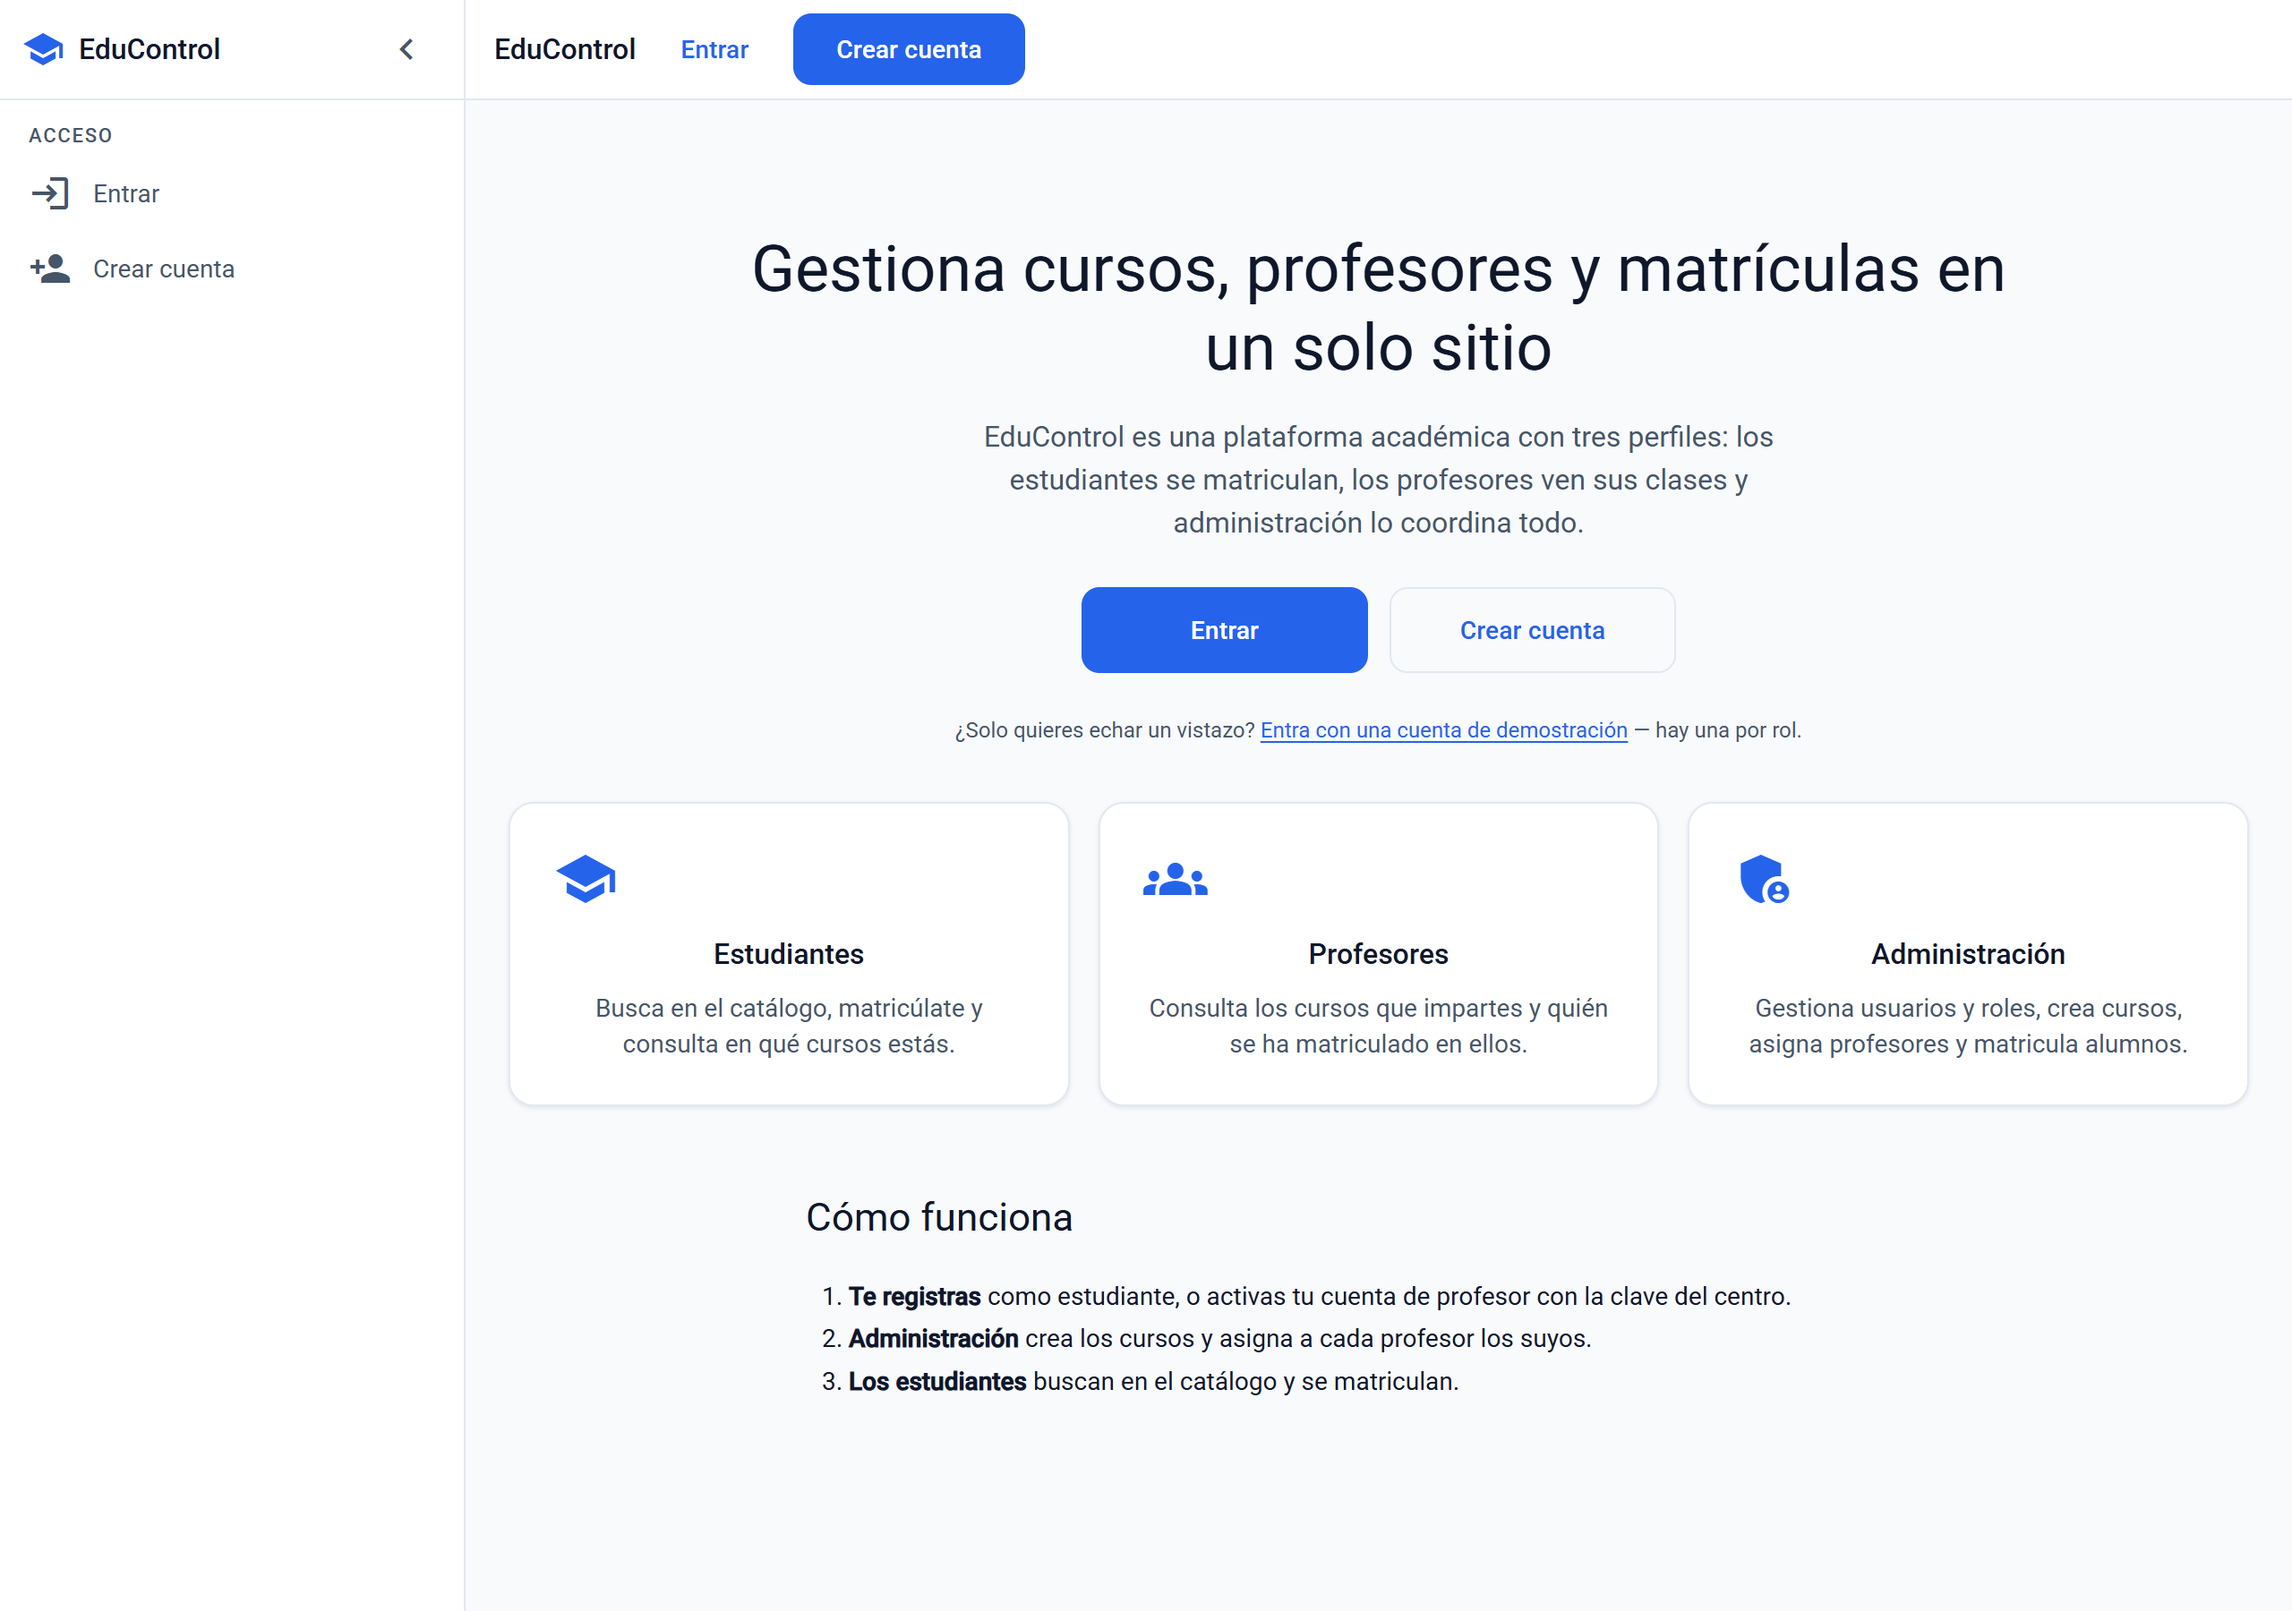
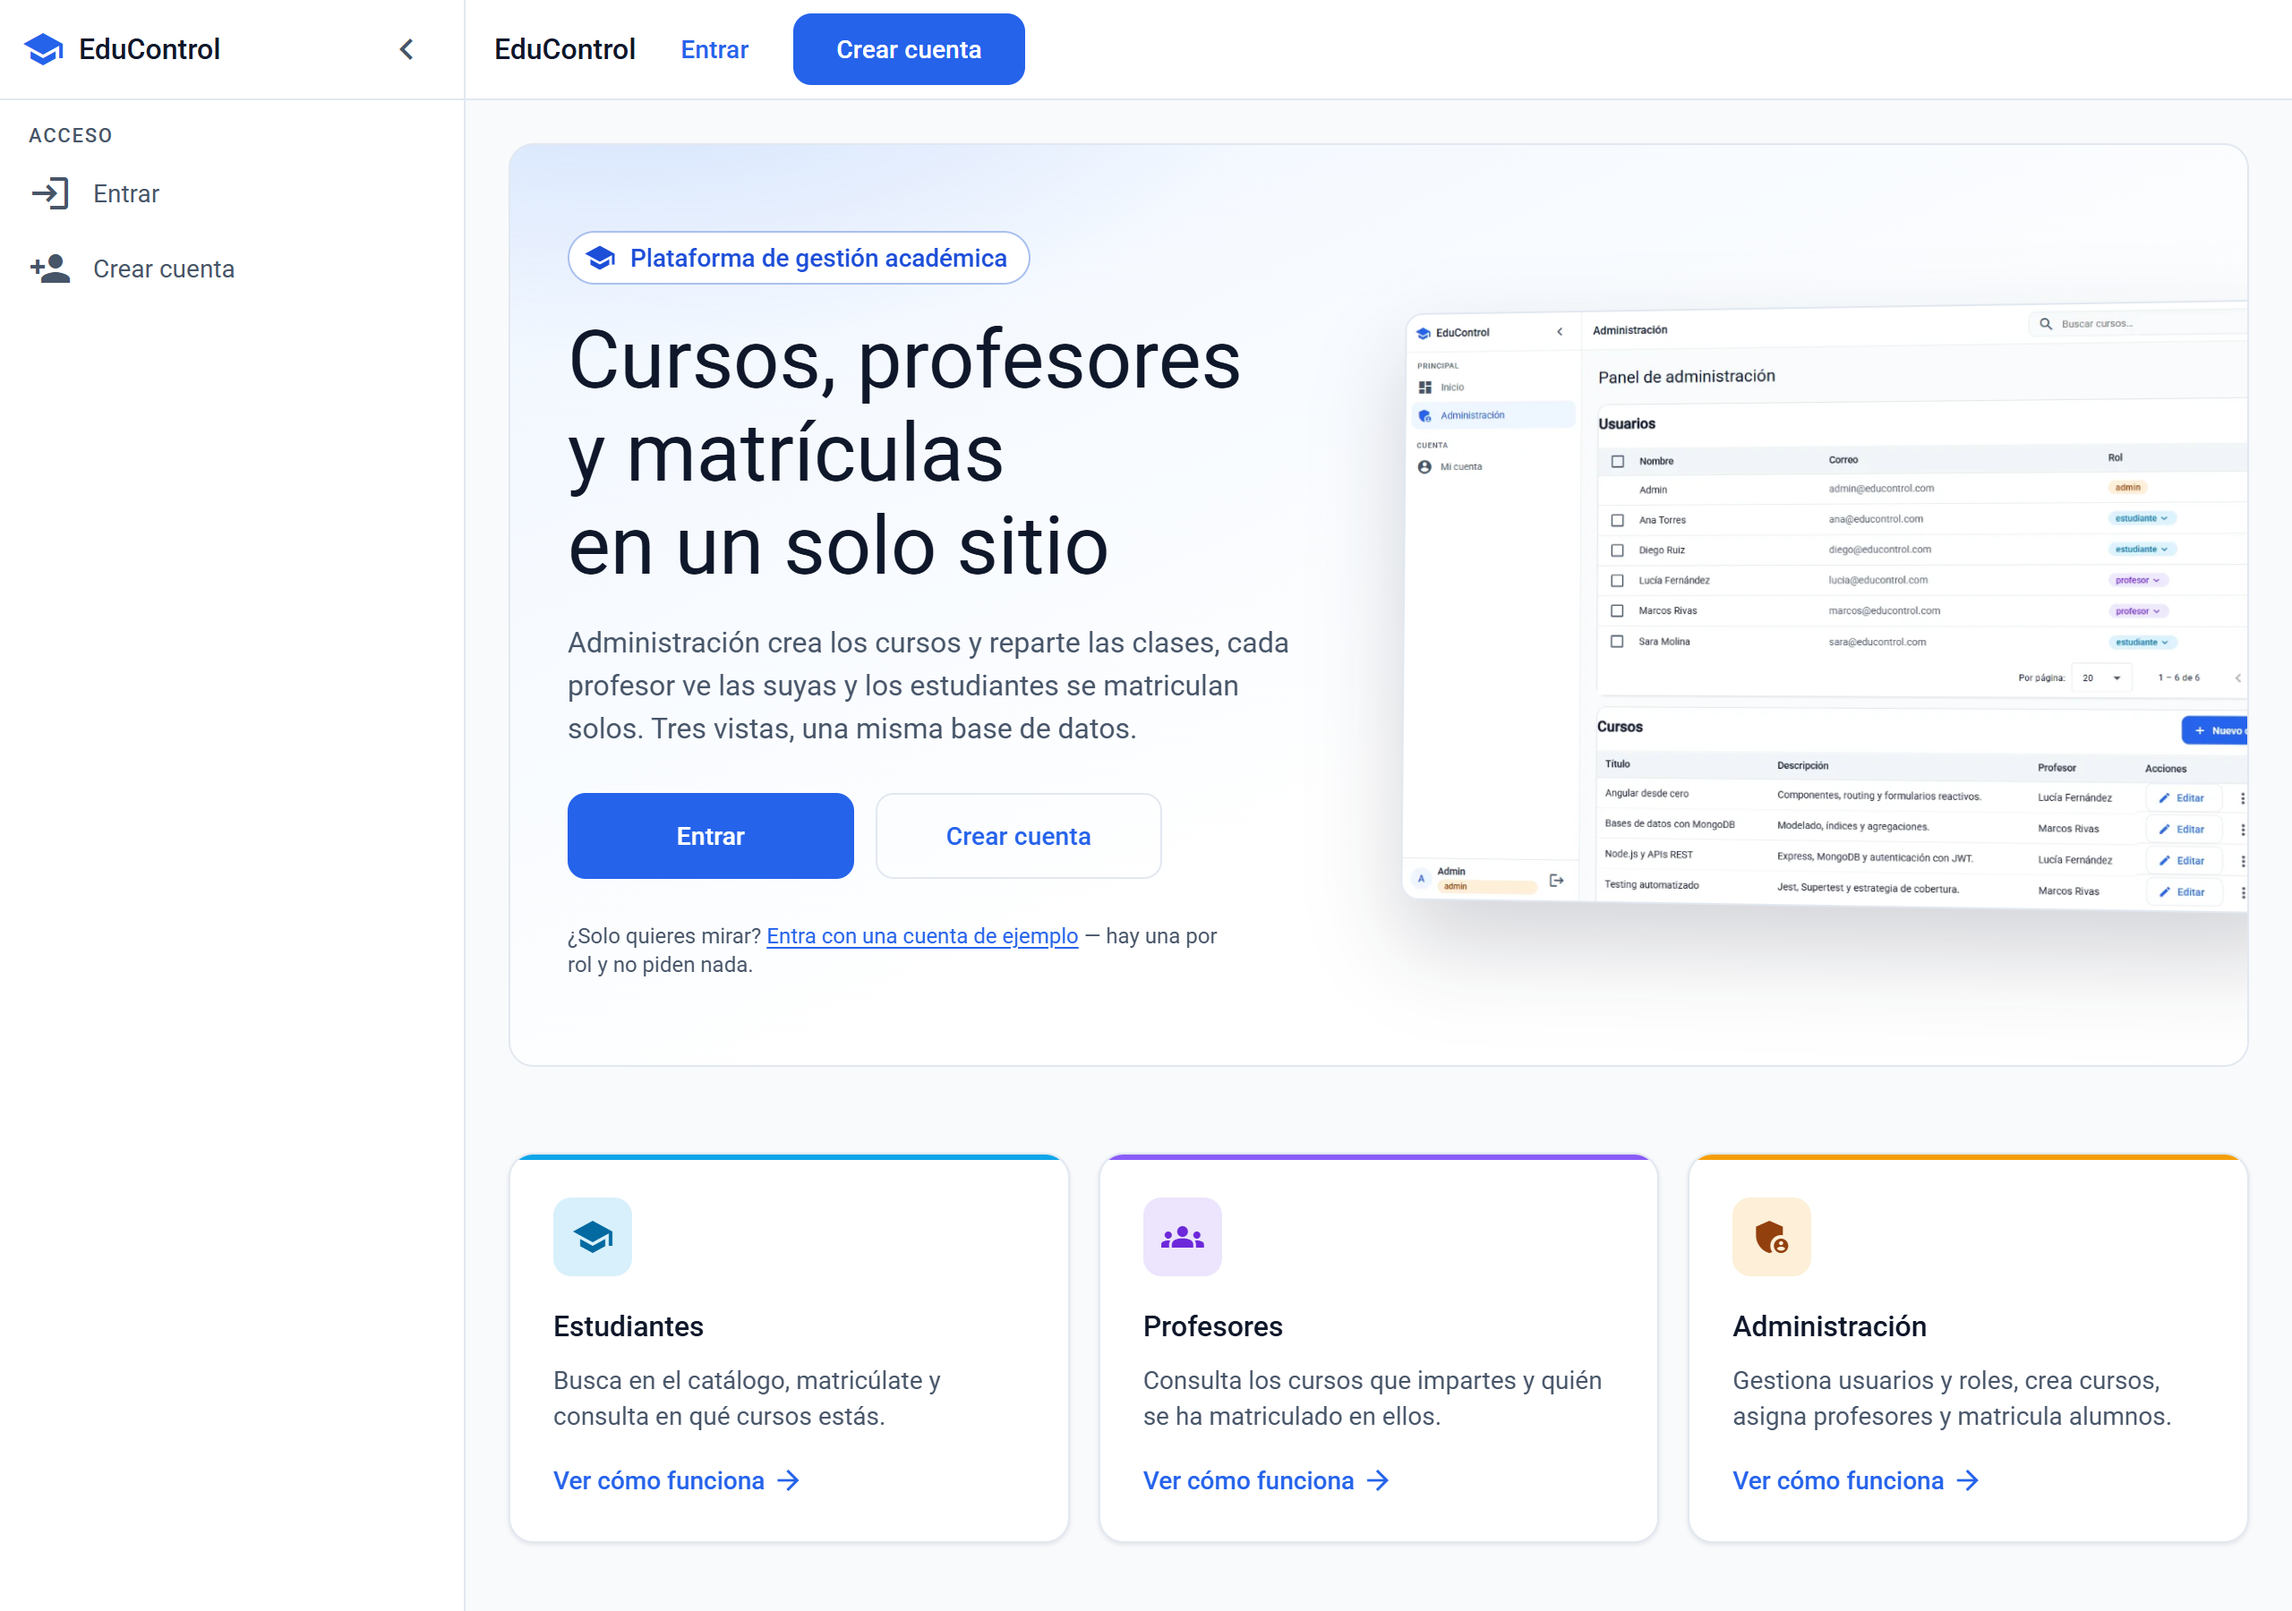
docs: recoge la portada y sus números
- README: la portada también tiene un botón por rol, y una tabla con lo que
  mide Lighthouse contra `/`. El objetivo de rendimiento era 90: se cumple en
  escritorio (95) y no en móvil (57-75). El motivo no está en la portada —14,6
  kB de chunk propio y 44 kB de captura— sino en el bundle inicial y en la hoja
  de estilos, que bloquea el pintado porque `inlineCritical` está desactivado
  por la CSP. Se dice, no se esconde.
- README: el bundle inicial pasó a ~733 kB con el armazón de consola; el dato
  se había quedado en ~700.
- DISENO: cómo se resuelve el color de un rol cuando un bloque tiñe varias
  cosas con él, y que `npm run capturas` escribe también los dos webp del
  héroe, que no son documentación.
- CLAUDE.md: la regla de dónde se declara una animación.
- Capturas regeneradas.

diff --git a/README.md b/README.md
@@ -32,7 +32,7 @@ Un solo proceso sirve la API y la aplicación web desde el mismo origen, así qu
 
 ### Entrar
 
-La pantalla de login tiene un botón por rol que entra directamente. Si prefieres escribirlas:
+La portada y la pantalla de login tienen un botón por rol que entra directamente. Si prefieres escribirlas:
 
 | Rol           | Correo                 | Contraseña  |
 | ------------- | ---------------------- | ----------- |
@@ -230,6 +230,33 @@ de esperar: ninguno de los cambios toca la pantalla de login. Lo que sí se
 mueve es el panel de administración, y ahí Lighthouse no llega porque hace
 falta sesión.
 
+### La portada
+
+Medida igual, contra `/`, que ahora es una pantalla de verdad y no un texto
+centrado:
+
+| Medida                 | Escritorio | Móvil     |
+| ---------------------- | ---------- | --------- |
+| Rendimiento            | 95         | 57-75     |
+| Accesibilidad          | 100        | 100       |
+| Prácticas recomendadas | 100        | 100       |
+| SEO                    | 100        | 100       |
+| LCP                    | 1,3 s      | 4,0-5,0 s |
+| CLS                    | 0          | 0         |
+
+El objetivo era 90 de rendimiento: se cumple en escritorio y no en móvil. El
+motivo no está en la portada. Con la CPU cuatro veces más lenta y la red de un
+4G malo, lo que manda es el bundle inicial —Angular con Material— y la hoja de
+estilos, que bloquea el pintado porque `inlineCritical` está desactivado por la
+CSP. La portada pone 14,6 kB de chunk propio y 44 kB de captura; el resto lo
+paga igual cualquier otra ruta. Bajarlo es otro trabajo, no un retoque de esta
+pantalla.
+
+Lo que sí se midió y se corrigió aquí: la captura del héroe pasó de 250 kB (PNG
+a escala 2) a 44 kB (webp a escala 1) sin perder nitidez —en su hueco más ancho
+se pinta a unos 570 px—, y `/robots.txt` dejó de caer en el comodín del
+enrutado, que se lo devolvía como index.html.
+
 De dónde salen los 70 kB: se fueron `@angular-devkit/build-angular`,
 `@angular/platform-browser-dynamic` y `express` del frontend, y con ellos 300
 paquetes transitivos.
@@ -260,7 +287,7 @@ Escrito a propósito: son cosas detectadas y priorizadas, no sorpresas.
 - **Los desplegables de profesor y estudiante cargan como mucho 100 opciones.** Por encima de eso harían falta un buscador con filtro en servidor.
 - **No hay pantalla de detalle de un curso:** desde las tarjetas se navega al listado, no a una ficha propia.
 - **`POST /api/inscripciones` acepta el `estudianteId` del cuerpo sin comprobar de quién es.** Lo necesita el panel de administración para matricular a terceros, pero un estudiante autenticado también podría matricular a otro. La regla correcta sería: admin y profesor matriculan a quien sea, un estudiante solo a sí mismo.
-- **El bundle inicial pesa ~700 kB** (173 kB transferidos). Es lo que cuesta Angular con Material; el presupuesto del build está en 800 kB para que avise de regresiones reales en vez de saltar siempre. Los números, en la sección de rendimiento.
+- **El bundle inicial pesa ~733 kB** (180 kB transferidos). Es lo que cuesta Angular con Material; el presupuesto del build está en 800 kB para que avise de regresiones reales en vez de saltar siempre. Los números, en la sección de rendimiento.
 
 ## Licencia
 

diff --git a/docs/DISENO.md b/docs/DISENO.md
@@ -77,6 +77,11 @@ Cada rol tiene además su versión legible para texto: `--rol-*-texto`. El color
 del rol sirve para **teñir un fondo**, no para escribir encima: `#f59e0b` sobre
 blanco da 2,3:1. El chip usa el color al 14 % de fondo y el `-texto` encima.
 
+Cuando un mismo bloque tiñe varias cosas con el color de un rol —la portada
+pinta franja, icono y número— el par se resuelve **una vez** en el elemento que
+lleva el rol escrito, con `[data-rol='…'] { --color-rol; --color-rol-texto }`, y
+de ahí abajo lo hereda todo. La alternativa era repetir cada regla tres veces.
+
 ### Estado
 
 | Token      | Claro     | Oscuro    |
@@ -216,6 +221,14 @@ Se regeneran con `npm run capturas` (necesita el servidor levantado; recorre
 las pantallas con un Chrome sin interfaz). El script fija el tema en cada
 captura con `Emulation.setEmulatedMedia`: sin eso, Chrome hereda el esquema del
 sistema y las mismas capturas salen claras u oscuras según quién las regenere.
+De paso pide `prefers-reduced-motion: reduce`, porque si no la portada se
+capturaba a medio animar —y así se comprueba que con esa preferencia no queda
+nada invisible.
+
+La misma tanda escribe dos ficheros que **no** son documentación:
+`frontend/public/captura-panel.webp` y `captura-panel-oscuro.webp`, el panel
+que enseña el héroe de la portada. Van en webp y a escala 1 porque esas dos sí
+las descarga quien abre la página.
 
 ---
 

diff --git a/CLAUDE.md b/CLAUDE.md
@@ -89,6 +89,7 @@ No hace falta instalar MongoDB: si no hay `MONGO_URI` ni un mongod local, el ser
 - **Los colores y las formas salen de los tokens de `styles.scss`**, nunca escritos a mano. Un `#fff` no existe en modo oscuro y un `rgba(0,0,0,.6)` es invisible ahí. La tabla completa está en `docs/DISENO.md`.
 - **Los tokens se declaran en claro y el bloque oscuro solo redefine.** Un color cuya única definición esté dentro de un `@media` queda `unset` en claro y el componente sale transparente.
 - **El color del rol tiñe fondos; para escribir encima está `--rol-*-texto`.** El ámbar sobre blanco da 2,3:1.
+- **Lo que se anima se declara DENTRO de `@media (prefers-reduced-motion: no-preference)`**, no se apaga fuera. Si el estado base es `opacity: 0` y se confía en una regla que lo revierta, basta con que esa regla no gane para dejar media pantalla invisible. Declarándolo dentro, quien pide menos movimiento simplemente no tiene animación.
 
 ## Convenciones
 
